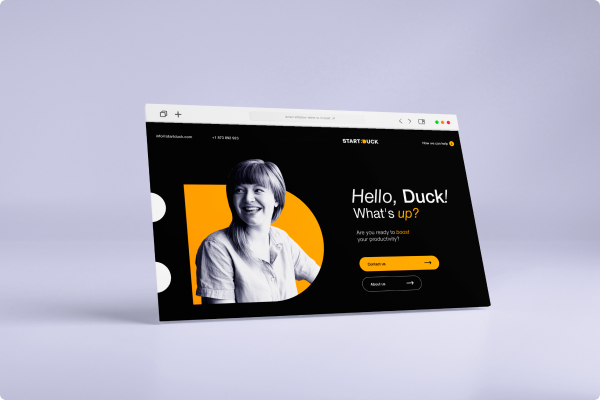
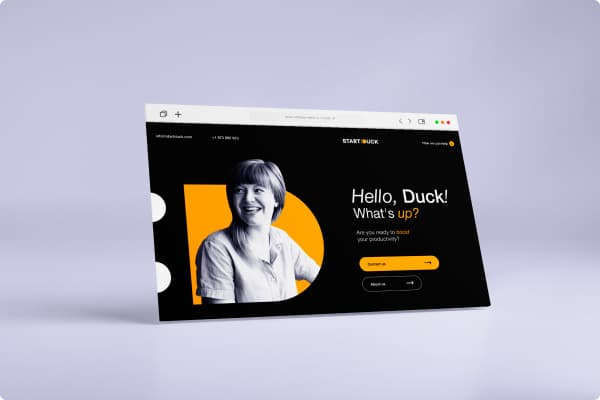
Добавляет изображения layouts

diff --git a/css/main.min.css b/css/main.min.css
@@ -1,1 +1,1 @@
-@font-face{font-family:"Vasek";src:url("../fonts/Vasek-Italic.ttf");src:url("../fonts/Vasek-Italic.eot?#iefix") format("embedded-opentype"),url("../fonts/Vasek-Italic.woff2") format("woff2"),url("../fonts/Vasek-Italic.woff") format("woff"),url("../fonts/Vasek-Italic.ttf") format("truetype"),url("../fonts/Vasek-Italic.svg#Vasek-Italic") format("svg");font-weight:normal;font-style:italic}body{font-family:"Winston",serif;background-color:#fff;color:#000;margin:0}img{display:block;width:100%;height:auto}h1,h2,h3,h4,h5,h6,p{margin:0;padding:0}body.modal-open,body.mobile-open{overflow:hidden}.visually-hidden{position:absolute;width:1px;height:1px;margin:-1px;border:0;padding:0;white-space:nowrap;-webkit-clip-path:inset(100%);clip-path:inset(100%);clip:rect(0 0 0 0);overflow:hidden}.category-list,.cart-list,.projects-list,.stats-list,.shine-list{list-style:none;padding:0;margin:0}.button{display:inline-block;min-width:280px;padding:14px 60px;margin-left:10px;margin-right:5px;color:#240532;background-color:#d6ff3f;border:solid 1px #827089;border-radius:40px;box-shadow:none;text-decoration:none;text-transform:uppercase;font-size:16px;text-align:center;font-style:normal;font-weight:500;line-height:137%;cursor:pointer;transition:color 250ms cubic-bezier(0.4, 0, 0.2, 1),background-color 250ms cubic-bezier(0.4, 0, 0.2, 1),box-shadow 250ms cubic-bezier(0.4, 0, 0.2, 1)}.main-title{color:#240532;font-size:29px;font-style:normal;font-weight:700;line-height:normal;text-transform:uppercase}.subtitle{margin-bottom:10px;color:#240532;font-feature-settings:"clig" off,"liga" off;font-family:Winston;font-size:16px;font-style:normal;font-weight:600;line-height:110%}.projects-list,.stats-list__txt,.text{color:#665070;font-feature-settings:"clig" off,"liga" off;font-size:14px;font-style:normal;font-weight:500;line-height:137%}.container{padding-left:10px;padding-right:10px;margin-left:auto;margin-right:auto}.section{margin-bottom:40px}.section--margin{margin-bottom:0px}.thumb{position:relative;display:block;width:100%;border:solid rgba(0,0,0,0);border-radius:50px 50px 0 0}.thumb>img{display:block;height:100%;width:100%;-o-object-fit:cover;object-fit:cover;border:solid rgba(0,0,0,0);border-radius:inherit}.thumb--border{border-radius:0}.page-header{padding-top:5px;position:relative;height:22px;margin-bottom:10px}.main-nav{display:flex;justify-content:space-between;align-items:center}.logo{display:inline-block}.logo__icon{width:30px;height:22px}.menu-button{display:block;position:absolute;right:10px;padding:0;margin:0;background-color:rgba(0,0,0,0);border:none}.menu-button__icon{height:30px;transition:fill 250ms linear;width:30px}.menu-button:active .menu-button__icon,.menu-button:hover .menu-button__icon,.menu-button:focus .menu-button__icon{fill:green}.menu-button .icon-close{display:none}.menu-button.is-open .icon-close{display:block;transform:translateX(30%)}.menu-button.is-open .icon-open{display:none}.main-title{margin-bottom:10px}.main-title--color{color:#626286}.title{max-width:480px;margin-bottom:10px;color:#240532;font-feature-settings:"clig" off,"liga" off;font-family:Winston;font-size:25px;font-style:normal;font-weight:700;line-height:120%}.subtitle--size{font-size:20px;font-weight:500}.text{margin-bottom:10px}.description--color{color:#240532}.category-list__description{position:absolute;left:10px;bottom:10px;color:#240532;font-feature-settings:"clig" off,"liga" off;font-family:Winston;font-size:16px;font-style:normal;font-weight:700;line-height:120%;text-transform:uppercase}.shine-box{position:relative;display:flex;align-items:center;max-width:295px;height:15px;color:#918299}.icon-shine-line{max-width:100%;height:2px}.shine-list{position:absolute;display:inline-flex;gap:20px;top:-1px;right:-5px;height:15px}@media screen and (max-width: 360px){.shine-list{top:0px}}.shine-list__item{display:inline-block;height:inherit}.shine-list__shine{display:inline-flex;height:inherit}.button{margin-top:10px}.button:hover,.button:focus{color:#fff;background-color:#240532}.button:active{color:#240532;background-color:#fff}@media screen and (max-width: 339px){.button{font-size:14px}}.stats-list{display:flex;justify-content:space-between}.stats-list__title{color:#665070;font-feature-settings:"clig" off,"liga" off;font-family:Vasek;font-size:30px;font-style:italic;font-weight:400;line-height:110%}.stats-list__item{display:block;max-width:80px;border-top:solid 1px #827089}.stats-list__txt{display:flex;font-size:12px;line-height:140%}.projects-list__item{padding-top:10px;margin-bottom:10px;border-top:1px solid #827089}.projects-list__item:last-child{border-bottom:1px solid #827089}.cart-list{margin-top:10px;margin-bottom:10px}.cart-list__item{margin-bottom:5px}.cart-list__item:nth-last-child(1){margin-bottom:0}.category-list__item{position:relative}/*# sourceMappingURL=main.min.css.map */
+@font-face{font-family:"Vasek";src:url("../fonts/Vasek-Italic.ttf");src:url("../fonts/Vasek-Italic.eot?#iefix") format("embedded-opentype"),url("../fonts/Vasek-Italic.woff2") format("woff2"),url("../fonts/Vasek-Italic.woff") format("woff"),url("../fonts/Vasek-Italic.ttf") format("truetype"),url("../fonts/Vasek-Italic.svg#Vasek-Italic") format("svg");font-weight:normal;font-style:italic}body{font-family:"Winston",serif;background-color:#fff;color:#000;margin:0}img{display:block;width:100%;height:auto}h1,h2,h3,h4,h5,h6,p{margin:0;padding:0}body.modal-open,body.mobile-open{overflow:hidden}.visually-hidden{position:absolute;width:1px;height:1px;margin:-1px;border:0;padding:0;white-space:nowrap;-webkit-clip-path:inset(100%);clip-path:inset(100%);clip:rect(0 0 0 0);overflow:hidden}.category-list,.cart-list,.projects-list,.stats-list,.shine-list{list-style:none;padding:0;margin:0}.button{display:inline-block;min-width:280px;padding:14px 60px;color:#240532;background-color:#d6ff3f;border:solid 1px #827089;border-radius:40px;box-shadow:none;text-decoration:none;text-transform:uppercase;font-size:16px;text-align:center;font-style:normal;font-weight:500;line-height:137%;cursor:pointer;transition:color 250ms cubic-bezier(0.4, 0, 0.2, 1),background-color 250ms cubic-bezier(0.4, 0, 0.2, 1),box-shadow 250ms cubic-bezier(0.4, 0, 0.2, 1)}.main-title{color:#240532;font-size:29px;font-style:normal;font-weight:700;line-height:normal;text-transform:uppercase}.subtitle{margin-bottom:10px;color:#240532;font-feature-settings:"clig" off,"liga" off;font-family:Winston;font-size:16px;font-style:normal;font-weight:600;line-height:110%}.projects-list,.stats-list__txt,.text{color:#665070;font-feature-settings:"clig" off,"liga" off;font-size:14px;font-style:normal;font-weight:500;line-height:137%}.container{padding-left:10px;padding-right:10px;margin-left:auto;margin-right:auto}.section{margin-bottom:40px}.section--margin{margin-bottom:0px}.thumb{position:relative;display:block;width:100%;border:solid rgba(0,0,0,0);border-radius:50px 50px 0 0}.thumb>img{display:block;height:100%;width:100%;-o-object-fit:cover;object-fit:cover;border:solid rgba(0,0,0,0);border-radius:inherit}.thumb--border{border-radius:0}.page-header{padding-top:5px;position:relative;height:22px;margin-bottom:10px}.main-nav{display:flex;justify-content:space-between;align-items:center}.logo{display:inline-block}.logo__icon{width:30px;height:22px}.menu-button{display:block;position:absolute;right:10px;padding:0;margin:0;background-color:rgba(0,0,0,0);border:none}.menu-button__icon{height:30px;transition:fill 250ms linear;width:30px}.menu-button:active .menu-button__icon,.menu-button:hover .menu-button__icon,.menu-button:focus .menu-button__icon{fill:green}.menu-button .icon-close{display:none}.menu-button.is-open .icon-close{display:block;transform:translateX(30%)}.menu-button.is-open .icon-open{display:none}.main-title{margin-bottom:10px}.main-title--color{color:#626286}.title{max-width:480px;margin-bottom:10px;color:#240532;font-feature-settings:"clig" off,"liga" off;font-family:Winston;font-size:25px;font-style:normal;font-weight:700;line-height:120%}.subtitle--size{font-size:20px;font-weight:500}.text{margin-bottom:10px}.description--color{color:#240532}.category-list__description{position:absolute;left:10px;bottom:10px;color:#240532;font-feature-settings:"clig" off,"liga" off;font-family:Winston;font-size:16px;font-style:normal;font-weight:700;line-height:120%;text-transform:uppercase}.shine-box{position:relative;display:flex;align-items:center;max-width:295px;height:15px;color:#918299}.icon-shine-line{max-width:100%;height:2px}.shine-list{position:absolute;display:inline-flex;gap:20px;top:-1px;right:-5px;height:15px}@media screen and (max-width: 360px){.shine-list{top:0px}}.shine-list__item{display:inline-block;height:inherit}.shine-list__shine{display:inline-flex;height:inherit}.button{margin-top:10px;width:inherit}.button:hover,.button:focus{color:#fff;background-color:#240532}.button:active{color:#240532;background-color:#fff}@media screen and (max-width: 339px){.button{font-size:12px}}.stats-list{display:flex;justify-content:space-between}.stats-list__title{color:#665070;font-feature-settings:"clig" off,"liga" off;font-family:Vasek;font-size:30px;font-style:italic;font-weight:400;line-height:110%}.stats-list__item{display:block;max-width:80px;border-top:solid 1px #827089}.stats-list__txt{display:flex;font-size:12px;line-height:140%}.projects-list__item{padding-top:10px;margin-bottom:10px;border-top:1px solid #827089}.projects-list__item:last-child{border-bottom:1px solid #827089}.cart-list{margin-top:10px;margin-bottom:10px}.cart-list__item{margin-bottom:5px}.cart-list__item:nth-last-child(1){margin-bottom:0}.category-list__item{position:relative}/*# sourceMappingURL=main.min.css.map */

diff --git a/index.html b/index.html
@@ -272,7 +272,7 @@
         </div>
       </section>
       <!-- Layout caregories -->
-      <section>
+      <section class="section">
         <div class="container">
           <h2 class="title">Категории макетов</h2>
           <ul class="category-list">
@@ -280,14 +280,19 @@
               <picture class="thumb thumb--border">
                 <source
                   srcset="
-                    ./images/category/multipage-300@1x.webp 1x,
-                    ./images/category/multipage-600@2x.webp 2x,
-                    ./images/category/multipage-900@3x.webp 3x
+                    ./images/layouts/one-page-300.webp 1x,
+                    ./images/layouts/one-page-600@2x.webp 2x,
+                    ./images/layouts/one-page-900@3x.webp 3x
                   "
                   type="image/webp"
                   sizes="(max-width: 767px) 100vw"
                 />
-                <img src="./images/category/multipage-600@2x.jpg" alt="" />
+                <img srcset="
+                ./images/layouts/one-page-300.jpg 1x,
+                ./images/layouts/one-page-600@2x.jpg 2x,
+                ./images/layouts/one-page-900@3x.jpg 3x
+              "
+                src="./images/layouts/one-page-600@2x.jpg" alt="" />
               </picture>
               <p class="category-list__description">одностраничные</p>
             </li>
@@ -295,14 +300,19 @@
               <picture class="thumb thumb--border">
                 <source
                   srcset="
-                    /images/hero/mentis-abstract-370.webp     1x,
-                    /images/hero/mentis-abstract-740@2x.webp  2x,
-                    /images/hero/mentis-abstract-1110@3x.webp 3x
+                    ./images/layouts/multipage-300.webp 1x,
+                    ./images/layouts/multipage-600@2x.webp 2x,
+                    ./images/layouts/multipage-900@3x.webp 3x
                   "
                   type="image/webp"
                   sizes="(max-width: 767px) 100vw"
                 />
-                <img src="./images/category/multipage-600@2x.jpg" alt="" />
+                <img srcset="
+                ./images/layouts/multipage-300.jpg 1x,
+                ./images/layouts/multipage-600@2x.jpg 2x,
+                ./images/layouts/multipage-900@3x.jpg 3x
+              "
+                src="./images/layouts/multipage-600@2x.jpg" alt="" />
               </picture>
               <p class="category-list__description">многостраничные</p>
             </li>
@@ -310,14 +320,19 @@
               <picture class="thumb thumb--border">
                 <source
                   srcset="
-                    /images/hero/mentis-abstract-370.webp     1x,
-                    /images/hero/mentis-abstract-740@2x.webp  2x,
-                    /images/hero/mentis-abstract-1110@3x.webp 3x
+                    ./images/layouts/shop-300.webp 1x,
+                    ./images/layouts/shop-600@2x.webp 2x,
+                    ./images/layouts/shop-900@3x.webp 3x
                   "
                   type="image/webp"
                   sizes="(max-width: 767px) 100vw"
                 />
-                <img src="./images/category/multipage-600@2x.jpg" alt="" />
+                <img srcset="
+                ./images/layouts/shop-300.jpg 1x,
+                ./images/layouts/shop-600@2x.jpg 2x,
+                ./images/layouts/shop-900@3x.jpg 3x
+              "
+                src="./images/layouts/shop-600@2x.jpg" alt="" />
               </picture>
               <p class="category-list__description">магазины</p>
             </li>
@@ -325,17 +340,17 @@
         </div>
       </section>
 
-      <section>
+      <section class="section">
         <div class="container">
-          <h2>Новости</h2>
-          <p>
+          <h2 class="title">Новости</h2>
+          <p class="text description--color description--weight">
             Мы предлагаем вам создать уникальный дизайн для веб-сайта с
             использованием Figma. Вы можете проявить свою креативность,
             экспериментировать с цветами, композицией и типографикой. Будьте
             свободны в своем вдохновении и представьте нам удивительный дизайн,
             который будет визуально привлекателен и функционален.
           </p>
-          <p>Дедлайн: 30 июня 2023 г.</p>
+          <p class="text description--color">Дедлайн: 30 июня 2023 г.</p>
           <button type="button">УЧАСТВОВАТЬ</button>
         </div>
       </section>

diff --git a/css/main.css b/css/main.css
@@ -57,8 +57,6 @@ body.modal-open, body.mobile-open {
   display: inline-block;
   min-width: 280px;
   padding: 14px 60px;
-  margin-left: 10px;
-  margin-right: 5px;
   color: #240532;
   background-color: #D6FF3F;
   border: solid 1px #827089;
@@ -282,6 +280,7 @@ body.modal-open, body.mobile-open {
 
 .button {
   margin-top: 10px;
+  width: inherit;
 }
 .button:hover, .button:focus {
   color: #ffffff;
@@ -293,7 +292,7 @@ body.modal-open, body.mobile-open {
 }
 @media screen and (max-width: 339px) {
   .button {
-    font-size: 14px;
+    font-size: 12px;
   }
 }
 

diff --git a/sass/utils/_placeholders.scss b/sass/utils/_placeholders.scss
@@ -50,8 +50,6 @@
   display: inline-block;
   min-width: 280px;
   padding: 14px 60px;
-  margin-left: 10px;
-  margin-right: 5px;
   color: $color-title;
   background-color: $color-button;
   border: solid 1px $color-border;
@@ -106,7 +104,7 @@
 // }
 
 %txt {
-  color: $color-descripton;
+  color: $color-txt;
   font-feature-settings: "clig" off, "liga" off;
   font-size: 14px;
   font-style: normal;

diff --git a/sass/components/default/_button.scss b/sass/components/default/_button.scss
@@ -1,6 +1,7 @@
 .button {
   @extend %button;
   margin-top: 10px;
+  width: inherit;
 
   &:hover,
   &:focus {
@@ -13,6 +14,6 @@
   }
 
   @media screen and (max-width: 339px) {
-    font-size: 14px;
+    font-size: 12px;
   }
 }

diff --git a/sass/main.scss b/sass/main.scss
@@ -27,4 +27,4 @@
 @import './components/main/projects/projects-list';
 @import './components/main/projects/cart-settings';
 
-@import './components/main/category/category-list'
+@import './components/main/category/category-list';

diff --git a/sass/components/main/descripton/_text.scss b/sass/components/main/descripton/_text.scss
@@ -7,6 +7,10 @@
   color: $color-title;
 }
 
+.description--weight {
+  font-weight: 400;
+}
+
 .category-list__description {
   position: absolute;
   left: 10px;
